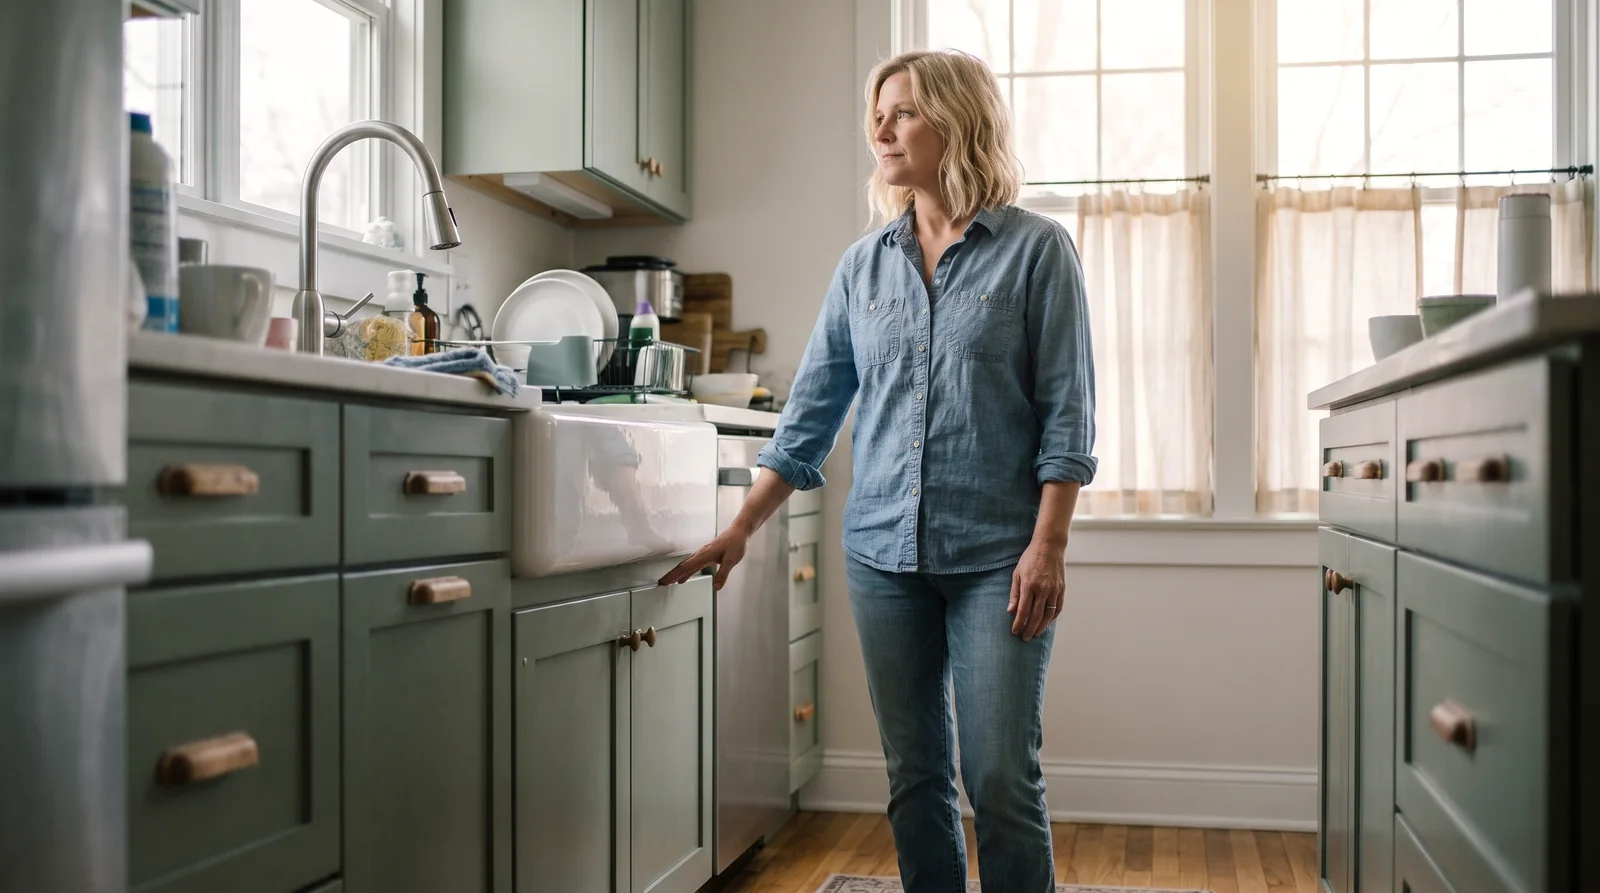
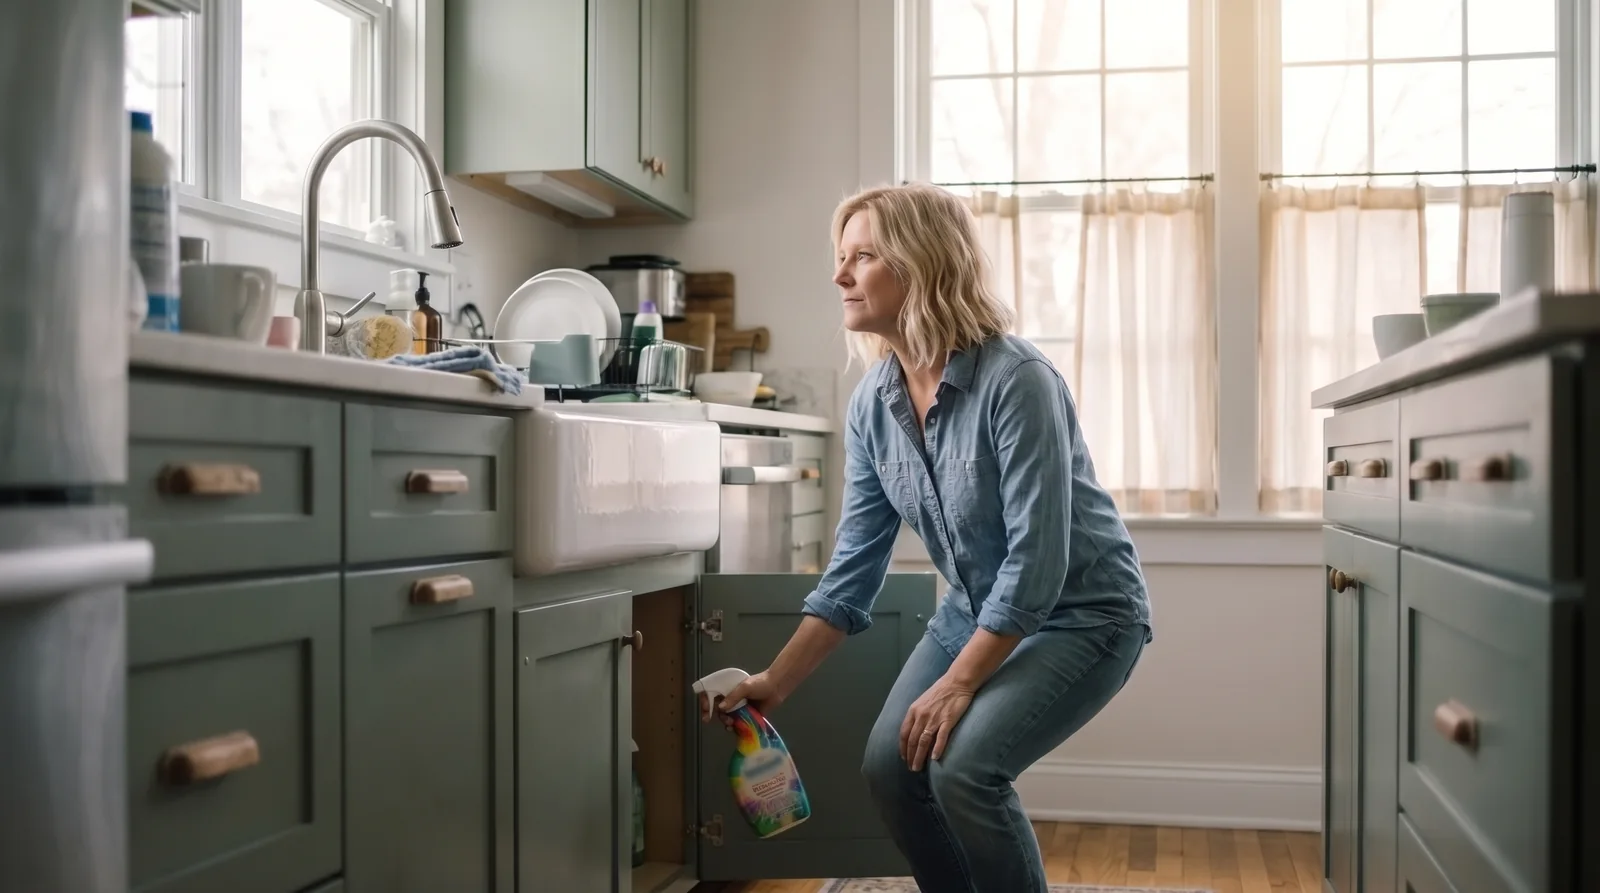
photos: what-cleaning-products-have-pfas recheck fixes

diff --git a/blog-pipeline/photos-completed/what-cleaning-products-have-pfas.md b/blog-pipeline/photos-completed/what-cleaning-products-have-pfas.md
@@ -36,3 +36,6 @@ note: "Sage kitchen with a farmhouse sink and cafe curtains, woman about 50 with
 - image_url: https://scan.ismyhometoxic.com/blog-images/whatcleanin-freedom-v1.webp
 - placement: final image before the closing scan CTA
 - completed: 2026-11-19T17:55:00
+
+## Recheck (Photo Claude) 2026-11-20
+Recheck: Turning point shows her setting a cleaner down at the open cabinet.
